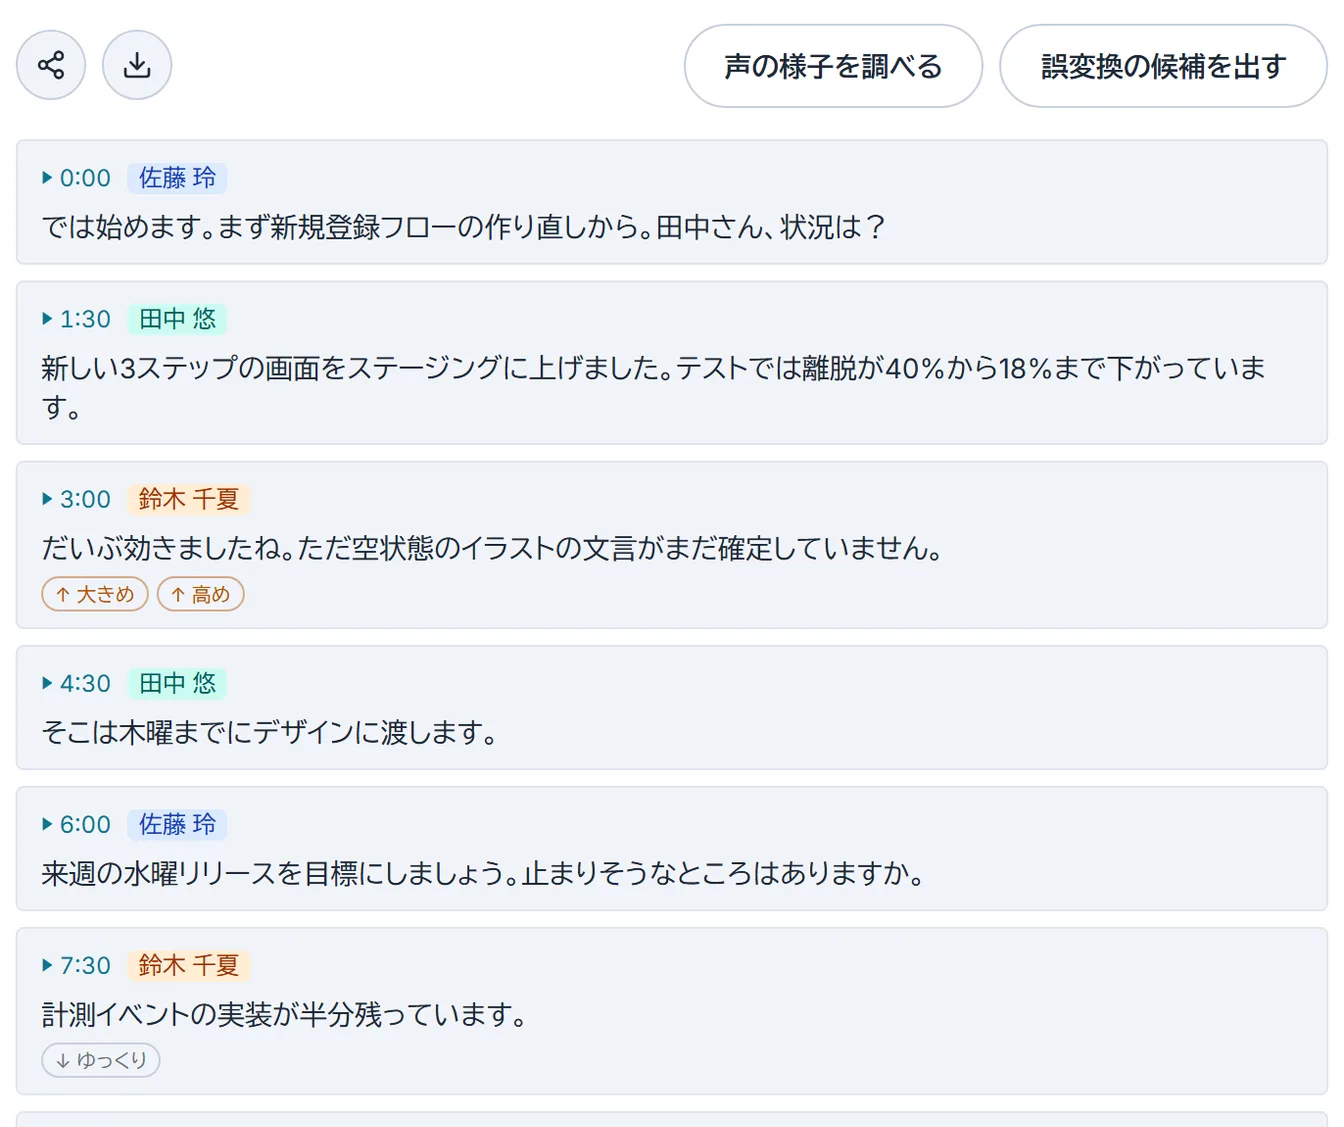
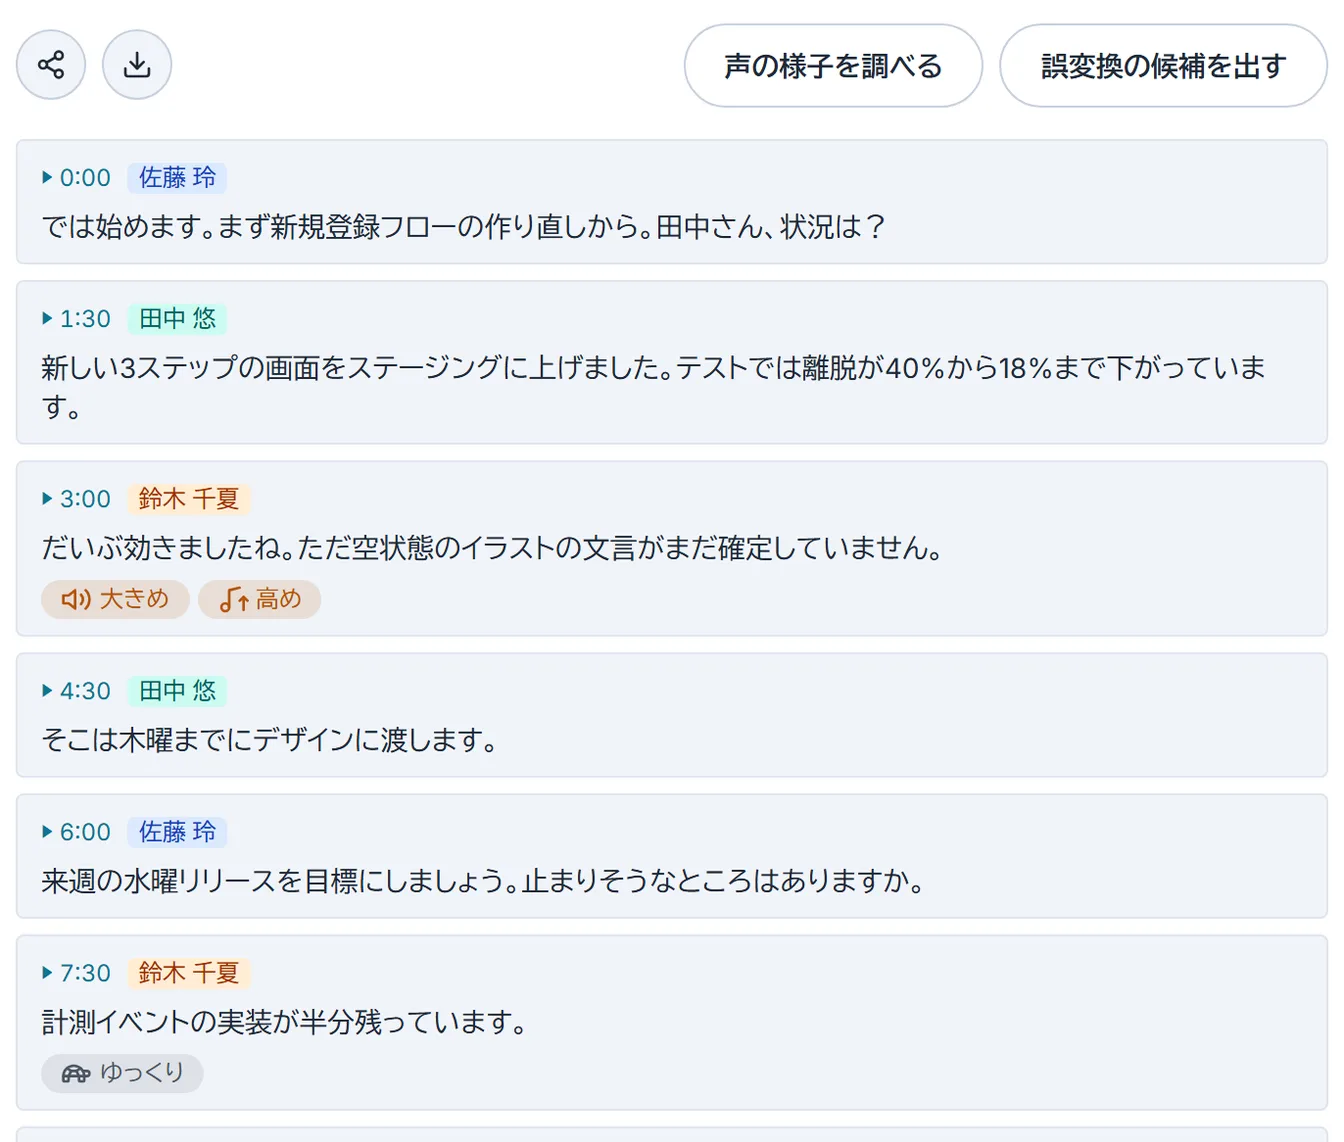
Show each voice cue as a picture
A speaker for louder or quieter, a note with an arrow for higher or
lower, a rabbit or a turtle for faster or slower, on a tinted chip a
size larger — so a glance down the transcript finds them.

diff --git a/app/[id]/transcript-list.tsx b/app/[id]/transcript-list.tsx
@@ -16,7 +16,18 @@ import {
 import { sttHttpBase } from "@/lib/stt/client";
 import { WHISPER_MODELS, effectiveSttLanguage } from "@/lib/stt/models";
 import { useConfirm } from "../confirm-dialog";
-import { LockIcon, LockOpenIcon, PencilIcon, TrashIcon } from "../icons";
+import {
+  LockIcon,
+  LockOpenIcon,
+  PencilIcon,
+  PitchDownIcon,
+  PitchUpIcon,
+  RabbitIcon,
+  TrashIcon,
+  TurtleIcon,
+  VolumeDownIcon,
+  VolumeUpIcon,
+} from "../icons";
 import { busyLabel } from "@/lib/queue/job-label";
 import { useGpuBusy } from "../use-gpu-busy";
 import { SpeakerChip, SpeakerNamesEditor, SpeakerPicker } from "./speakers-ui";
@@ -1796,20 +1807,36 @@ function VoiceMarks({ marks: list }: { marks: CueMark[] }) {
         : m.up
           ? t("Faster")
           : t("Slower");
+  const Icon = (m: CueMark) =>
+    m.cue === "loud"
+      ? m.up
+        ? VolumeUpIcon
+        : VolumeDownIcon
+      : m.cue === "pitch"
+        ? m.up
+          ? PitchUpIcon
+          : PitchDownIcon
+        : m.up
+          ? RabbitIcon
+          : TurtleIcon;
   return (
-    <div className="mt-1 flex flex-wrap gap-1" title={t("Compared with this speaker's other lines in this meeting")}>
-      {list.map((m) => (
-        <span
-          key={m.cue}
-          className={`rounded-full border px-1.5 py-px text-[10px] ${
-            m.up
-              ? "border-[color-mix(in_srgb,var(--warning)_45%,transparent)] text-[var(--warning)]"
-              : "border-[var(--border-strong)] text-[var(--text-muted)]"
-          }`}
-        >
-          {m.up ? "↑" : "↓"} {word(m)}
-        </span>
-      ))}
+    <div className="mt-1.5 flex flex-wrap gap-1" title={t("Compared with this speaker's other lines in this meeting")}>
+      {list.map((m) => {
+        const I = Icon(m);
+        return (
+          <span
+            key={m.cue}
+            className={`inline-flex items-center gap-1 rounded-full px-2.5 py-0.5 text-xs font-medium ${
+              m.up
+                ? "bg-[color-mix(in_srgb,var(--warning)_14%,transparent)] text-[var(--warning)]"
+                : "bg-[color-mix(in_srgb,var(--text-muted)_14%,transparent)] text-[var(--text-secondary)]"
+            }`}
+          >
+            <I className="h-4 w-4 shrink-0" />
+            {word(m)}
+          </span>
+        );
+      })}
     </div>
   );
 }

diff --git a/app/icons.tsx b/app/icons.tsx
@@ -237,3 +237,54 @@ export const StorageIcon = (p: SVGProps<SVGSVGElement>) => (
     <path d="M4 12c0 1.66 3.58 3 8 3s8-1.34 8-3" />
   </Base>
 );
+
+// How a line was said (Voice cues): one picture per cue, so a glance down the transcript finds them.
+export const VolumeUpIcon = (p: SVGProps<SVGSVGElement>) => (
+  <Base {...p}>
+    <path d="M11 5 6 9H2v6h4l5 4V5Z" />
+    <path d="M15.54 8.46a5 5 0 0 1 0 7.07" />
+    <path d="M19.07 4.93a10 10 0 0 1 0 14.14" />
+  </Base>
+);
+
+export const VolumeDownIcon = (p: SVGProps<SVGSVGElement>) => (
+  <Base {...p}>
+    <path d="M11 5 6 9H2v6h4l5 4V5Z" />
+    <path d="M15.54 8.46a5 5 0 0 1 0 7.07" />
+  </Base>
+);
+
+export const PitchUpIcon = (p: SVGProps<SVGSVGElement>) => (
+  <Base {...p}>
+    <path d="M9 18V5l8-2" />
+    <circle cx="6" cy="18" r="3" />
+    <path d="m17 13 3-3 3 3M20 10v10" />
+  </Base>
+);
+
+export const PitchDownIcon = (p: SVGProps<SVGSVGElement>) => (
+  <Base {...p}>
+    <path d="M9 18V5l8-2" />
+    <circle cx="6" cy="18" r="3" />
+    <path d="m17 17 3 3 3-3M20 20V10" />
+  </Base>
+);
+
+export const RabbitIcon = (p: SVGProps<SVGSVGElement>) => (
+  <Base {...p}>
+    <path d="M13 16a3 3 0 0 1 2.24 5" />
+    <path d="M18 12h.01" />
+    <path d="M18 21h-8a4 4 0 0 1-4-4 7 7 0 0 1 7-7h.2L9.6 6.4a1 1 0 1 1 2.8-2.8L15.8 7h.2c3.3 0 6 2.7 6 6v1a2 2 0 0 1-2 2h-1a3 3 0 0 0-3 3" />
+    <path d="M20 8.54V4a2 2 0 1 0-4 0v3" />
+    <path d="M7.612 12.524a3 3 0 1 0-1.6 4.3" />
+  </Base>
+);
+
+export const TurtleIcon = (p: SVGProps<SVGSVGElement>) => (
+  <Base {...p}>
+    <path d="m12 10 2 4v3a1 1 0 0 0 1 1h2a1 1 0 0 0 1-1v-3a8 8 0 1 0-16 0v3a1 1 0 0 0 1 1h2a1 1 0 0 0 1-1v-3l2-4h4Z" />
+    <path d="M4.82 7.9 8 10" />
+    <path d="M15.18 7.9 12 10" />
+    <path d="M16.93 10H20a2 2 0 0 1 0 4H2" />
+  </Base>
+);
